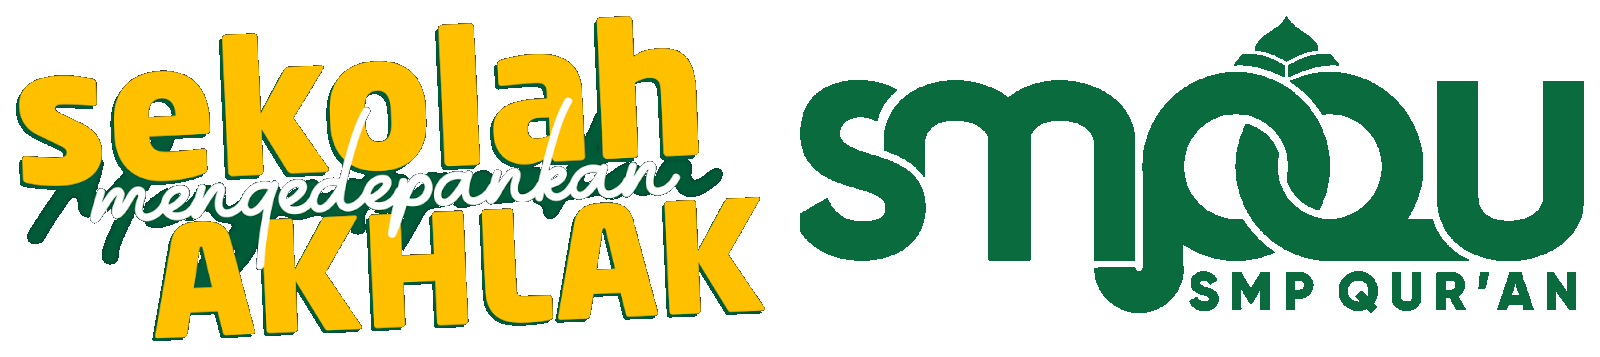
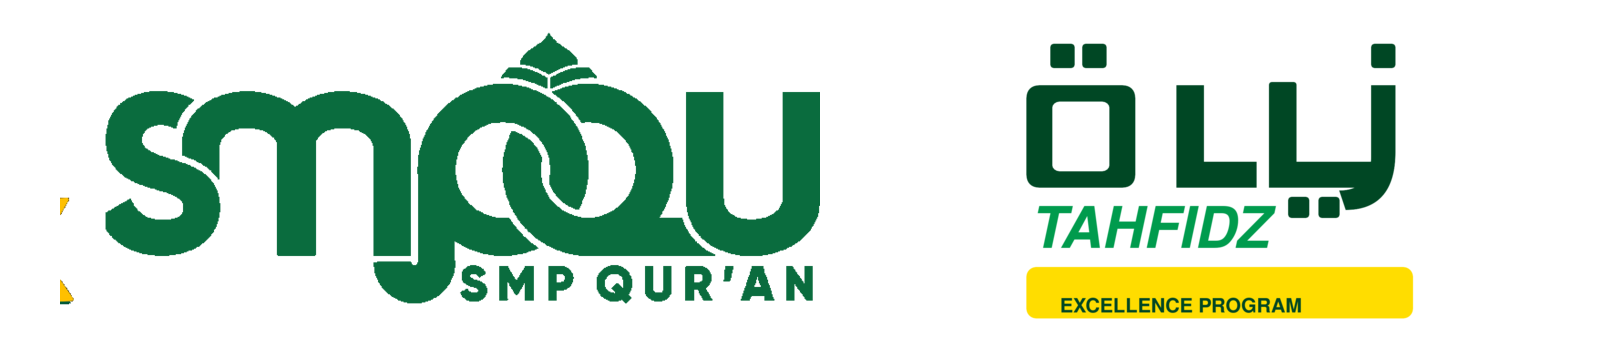
chore: replace header images
Update public header image assets with optimized versions.

diff --git a/src/components/ReportPrinter.tsx b/src/components/ReportPrinter.tsx
@@ -116,13 +116,13 @@ const RightHeaderLogos = ({ sizeVariant = "normal" }: { sizeVariant?: "normal" |
     <div className="flex items-center shrink-0">
       <img
         src={headerRightLogo}
-        alt="Sekolah Mengedepankan Akhlak - SMQU SMP Qur'an"
-        className={`${heightClass} w-auto object-contain transition-all drop-shadow-[0_1px_2px_rgba(0,0,0,0.3)]`}
+        alt="SMPQU SMP Qur'an - Ziyadah Tahfidz Excellence Program"
+        className={`${heightClass} w-auto object-contain transition-all drop-shadow-[0_1px_2px_rgba(0,0,0,0.15)]`}
         referrerPolicy="no-referrer"
         onError={(e) => {
           const target = e.currentTarget;
-          if (target.src !== "/Story Ig PART 4_20260915_195906_0000.png") {
-            target.src = "/Story Ig PART 4_20260915_195906_0000.png";
+          if (!target.src.includes("header_right_logo.png")) {
+            target.src = "/header_right_logo.png";
           } else if (target.src !== rightBannerImg) {
             target.src = rightBannerImg;
           }

diff --git a/src/components/CertificatePrinter.tsx b/src/components/CertificatePrinter.tsx
@@ -23,7 +23,7 @@ import {
   RefreshCw,
   X
 } from "lucide-react";
-import headerRightLogo from "../assets/images/Untitled design.png";
+import headerRightLogo from "../assets/images/header_right_logo.png";
 
 export interface CertificateData {
   namaSiswa: string;
